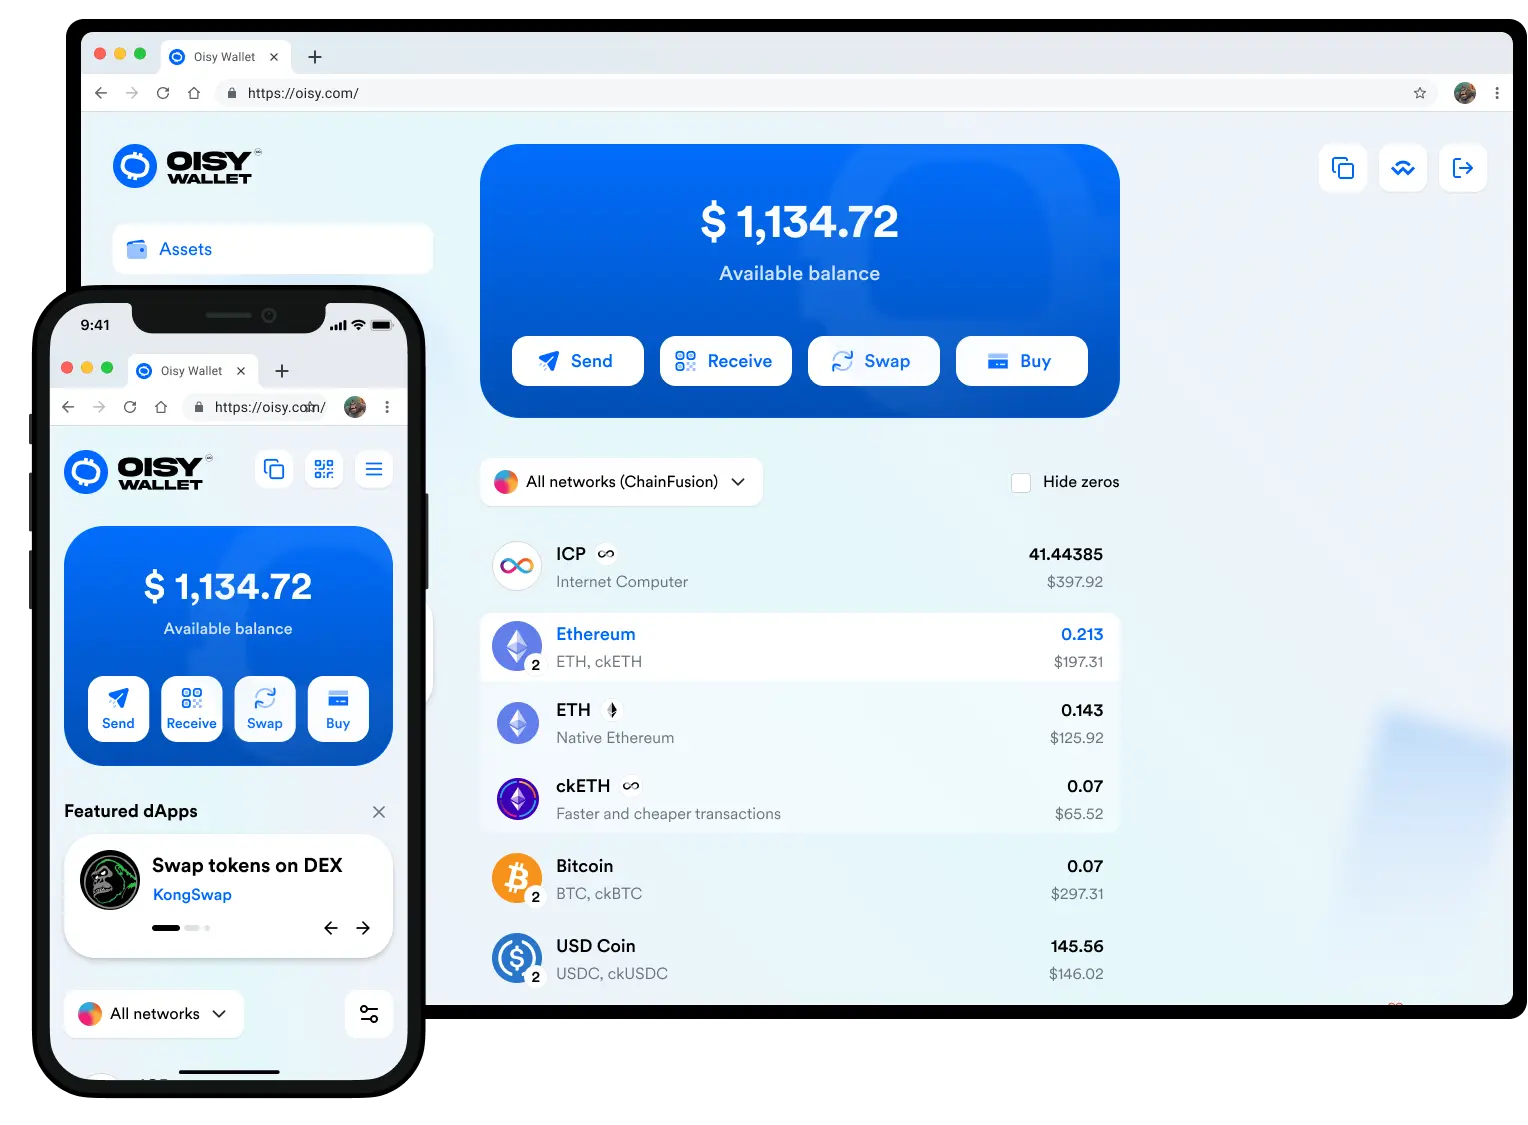
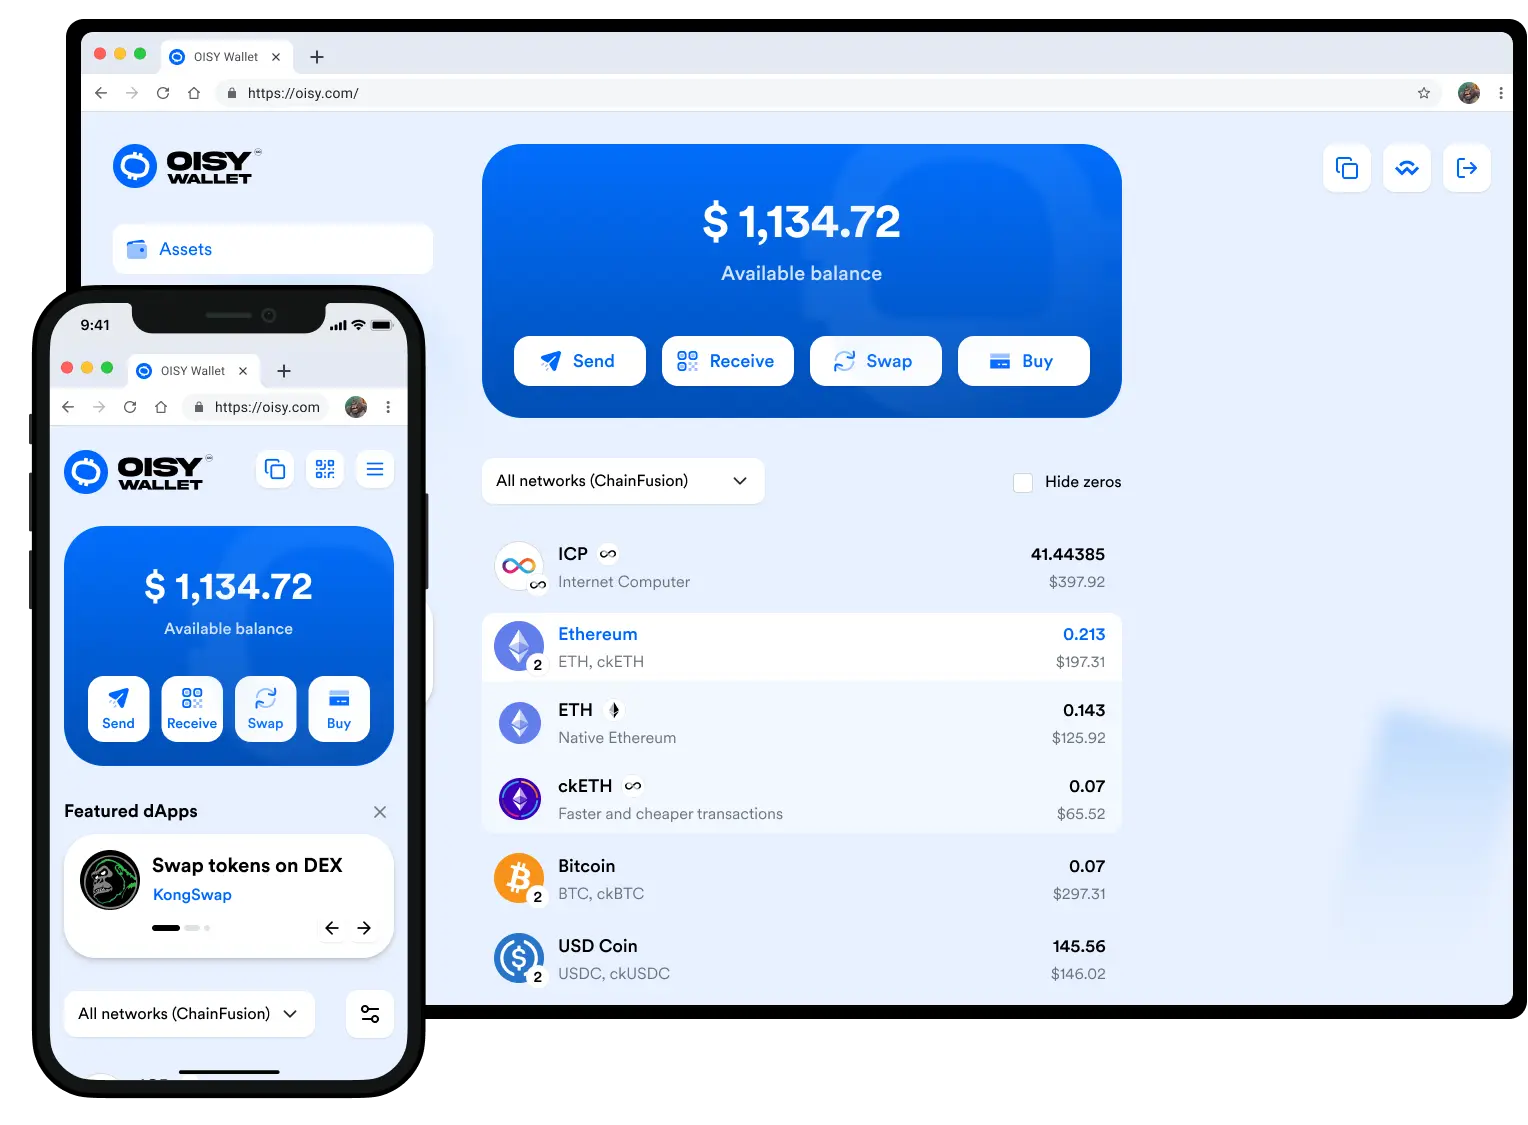
chore(doc): make OISY name uppercase (#2725)
# Motivation

We change every instance of `Oisy` to `OISY`. In another moment we will
decide wether to use `OISY Wallet` or just `OISY`.

diff --git a/README.md b/README.md
@@ -1,6 +1,6 @@
 <div style="display:flex;flex-direction:column;">
   <a href="https://oisy.com/">
-    <img src="./src/frontend/static/images/meta-share-v2.jpg" alt="Oisy Wallet logo" role="presentation"/>
+    <img src="./src/frontend/static/images/meta-share-v2.jpg" alt="OISY Wallet logo" role="presentation"/>
   </a>
 
 <br/>
@@ -14,31 +14,31 @@
 
 ---
 
-## What is the Oisy wallet
+## What is the OISY wallet
 
-Oisy is a new browser-based, self-custodial and multi-chain wallet powered by Internet Computer's [chain fusion](https://internetcomputer.org/chainfusion) technology.
+OISY is a new browser-based, self-custodial and multi-chain wallet powered by Internet Computer's [chain fusion](https://internetcomputer.org/chainfusion) technology.
 
 ## Features
 
-The Oisy wallet provides a convenient user experience known from custodial wallets but without their strong trust assumptions. In contrast, Oisy provides trust assumptions comparable to self-custody solutions. Different from self-custody wallets though, Oisy requires no browser extensions or additional mobile app, a standard off-the-shelf web browser is sufficient. In conclusion, Oisy provides an attractive user experience with a low entry barrier, yet requires no strong trust assumptions.
+The OISY wallet provides a convenient user experience known from custodial wallets but without their strong trust assumptions. In contrast, OISY provides trust assumptions comparable to self-custody solutions. Different from self-custody wallets though, OISY requires no browser extensions or additional mobile app, a standard off-the-shelf web browser is sufficient. In conclusion, OISY provides an attractive user experience with a low entry barrier, yet requires no strong trust assumptions.
 
-Building on ICP, Oisy achieves a unique set of features:
+Building on ICP, OISY achieves a unique set of features:
 
-- **Browser-based:** no matter your browser and operating system preferences, Oisy allows you to receive, hold, and send native ICP, ICRC-1, ETH, ERC20 (and in the near future BTC).
+- **Browser-based:** no matter your browser and operating system preferences, OISY allows you to receive, hold, and send native ICP, ICRC-1, ETH, ERC20 (and in the near future BTC).
 
-- **Cross-device:** due to the use of Internet Identity, Oisy can easily be used across all devices you have linked to your Internet Identity.
+- **Cross-device:** due to the use of Internet Identity, OISY can easily be used across all devices you have linked to your Internet Identity.
 
 - **Self-custody:** the key controlling your multi-chain assets is not controlled by a single entity nor has it ever existed as such. The key was generated using advanced cryptography that distributed key-shares among dedicated ICP replica nodes and signatures are created using [threshold ECDSA](https://internetcomputer.org/docs/current/developer-docs/integrations/t-ecdsa/).
 
 - **Fully on-chain:** not only the keys but the entire wallet application is stored on-chain and served directly to your browser. The entire wallet is secured by a decentralized trust model, which guarantees that neither the front-end, nor the back-end have been tampered with.
 
-- **Interoperable:** Oisy integrates with the [WalletConnect](https://walletconnect.com/) protocol allowing you to use it as a wallet for many established web3 services, such as Uniswap. The Oisy team is actively working on integrating Oisy with [ICP's signer standards](https://github.com/dfinity/wg-identity-authentication/blob/main/topics/signer_standards_overview.md) allowing Oisy to interact with [ICP's rich dapp ecosystem](https://internetcomputer.org/ecosystem).
+- **Interoperable:** OISY integrates with the [WalletConnect](https://walletconnect.com/) protocol allowing you to use it as a wallet for many established web3 services, such as Uniswap. The OISY team is actively working on integrating OISY with [ICP's signer standards](https://github.com/dfinity/wg-identity-authentication/blob/main/topics/signer_standards_overview.md) allowing OISY to interact with [ICP's rich dapp ecosystem](https://internetcomputer.org/ecosystem).
 
-- **Free to use and develop:** Oisy is open-source software and licensed under [Apache 2.0](LICENSE). Feel free to fork it or propose improvements.
+- **Free to use and develop:** OISY is open-source software and licensed under [Apache 2.0](LICENSE). Feel free to fork it or propose improvements.
 
 ## ICP building blocks used
 
-What are the unique ICP technical building blocks enabling the creation of Oisy?
+What are the unique ICP technical building blocks enabling the creation of OISY?
 
 - **Chain-key signatures:** the world's best threshold ECDSA signature [protocol suite](https://eprint.iacr.org/2022/506) (only available on ICP) enables smart contracts to perform cryptographic signatures without a single entity having full access to the private key. Read more about [chain-key cryptography](https://internetcomputer.org/how-it-works/chain-key-technology/) or start building based on [chain-key signature sample code](https://github.com/dfinity/examples/tree/master/rust/threshold-ecdsa).
 
@@ -46,7 +46,7 @@ What are the unique ICP technical building blocks enabling the creation of Oisy?
 
 - **Web applications served from chain:** ICP is not only designed to run _backends_, such as ledgers, on chain, its low storage cost and low latency allow it to serve _frontends_, such as HTML files and images, from chain, too. Read more about [smart contracts serving web applications](https://internetcomputer.org/how-it-works/smart-contracts-serve-the-web/) or directly start [building your first decentralized web frontend](https://internetcomputer.org/docs/current/developer-docs/frontend/).
 
-- (Upcoming) **HTTP outcalls:** for now, Oisy calls centralized Ethereum endpoints, such as Infura or Alchemy, from the frontend. In the future, Oisy might be improved to use [HTTP outcalls](https://internetcomputer.org/https-outcalls) to call these endpoints in a decentralized fashion. Check out the [HTTP outcalls sample code](https://internetcomputer.org/docs/current/developer-docs/integrations/https-outcalls/https-outcalls-how-to-use) to explore how to use Web 2.0 services on ICP.
+- (Upcoming) **HTTP outcalls:** for now, OISY calls centralized Ethereum endpoints, such as Infura or Alchemy, from the frontend. In the future, OISY might be improved to use [HTTP outcalls](https://internetcomputer.org/https-outcalls) to call these endpoints in a decentralized fashion. Check out the [HTTP outcalls sample code](https://internetcomputer.org/docs/current/developer-docs/integrations/https-outcalls/https-outcalls-how-to-use) to explore how to use Web 2.0 services on ICP.
 
 ## Status
 
@@ -74,7 +74,7 @@ dfx stop
 
 from the project directory will stop the local replica.
 
-### Run Oisy locally
+### Run OISY locally
 
 Make sure you switch back to the project root directory.
 
@@ -84,7 +84,7 @@ First, install the frontend dependencies by running
 npm ci
 ```
 
-To build and deploy the project locally, first create a `.env.development` file by copying the [.env.example](.env.example) file. Once you've correctly set the api keys for all the different services that Oisy needs, then run:
+To build and deploy the project locally, first create a `.env.development` file by copying the [.env.example](.env.example) file. Once you've correctly set the api keys for all the different services that OISY needs, then run:
 
 ```
 npm run deploy
@@ -103,7 +103,7 @@ URLs:
     internet_identity: http://127.0.0.1:4943/?canisterId=bd3sg-teaaa-aaaaa-qaaba-cai&id=be2us-64aaa-aaaaa-qaabq-cai
 ```
 
-Click on the **frontend** URL to access the Oisy Wallet that is running locally.
+Click on the **frontend** URL to access the OISY Wallet that is running locally.
 
 ### Local development
 

diff --git a/HOW-TO.md b/HOW-TO.md
@@ -1,28 +1,28 @@
 # How-to
 
-This document provides valuable information regarding Oisy Wallet integration and features.
+This document provides valuable information regarding OISY Wallet integration and features.
 
 ## SNS Token Support
 
 The [SNS aggregator](https://3r4gx-wqaaa-aaaaq-aaaia-cai.icp0.io/) is used to pre-populate the list of available SNSes. This information is not fetched at runtime because it does not change frequently. Moreover, this approach is best suited for a smoother UI/UX experience.
 
-> Note: Some SNSes may not be enabled due to their related Index canister version being outdated and therefore not compatible with Oisy Wallet. If you wish to use these, contact the related project to propose an upgrade to their canister.
+> Note: Some SNSes may not be enabled due to their related Index canister version being outdated and therefore not compatible with OISY Wallet. If you wish to use these, contact the related project to propose an upgrade to their canister.
 
 See script [./script/buil.dsns.tokens.mjs](./script/buil.dsns.tokens.mjs) for more details.
 
 ## Custom ICRC Token Integration
 
-Oisy Wallet allows users to add custom [ICRC](https://internetcomputer.org/docs/current/developer-docs/defi/overview/#icrc-1-ledgers) tokens to their wallet. However, certain requirements must be met to ensure compatibility and security.
+OISY Wallet allows users to add custom [ICRC](https://internetcomputer.org/docs/current/developer-docs/defi/overview/#icrc-1-ledgers) tokens to their wallet. However, certain requirements must be met to ensure compatibility and security.
 
-This chapter outlines the necessary steps and considerations for integrating a custom token into Oisy Wallet.
+This chapter outlines the necessary steps and considerations for integrating a custom token into OISY Wallet.
 
 ### Requirements
 
-To add a custom token to Oisy Wallet, users must provide both a Ledger and Index canister ID. The Ledger canister ID is straightforward, representing the ledger where the token transactions are recorded. However, the Index canister ID is also required because Oisy Wallet does not index transactions and balances. Instead, Oisy reads balance and transactions from an indexer, the Index canister.
+To add a custom token to OISY Wallet, users must provide both a Ledger and Index canister ID. The Ledger canister ID is straightforward, representing the ledger where the token transactions are recorded. However, the Index canister ID is also required because OISY Wallet does not index transactions and balances. Instead, OISY reads balance and transactions from an indexer, the Index canister.
 
 ### Index Canister
 
-Custom tokens seeking compatibility with Oisy Wallet can choose one of the following options for the Index canister:
+Custom tokens seeking compatibility with OISY Wallet can choose one of the following options for the Index canister:
 
 1. Spin up an Index canister on mainnet using the index-ng WASM.
 
@@ -51,7 +51,7 @@ If opting for a custom canister, it must implement the following two endpoints: 
 
 It's important to note that although both functions are queries, for security reasons, they are called with both query and update.
 
-> Oisy uses the JavaScript library [@dfinity/ledger-icrc](https://github.com/dfinity/ic-js/tree/main/packages/ledger-icrc) to interact with the canister.
+> OISY uses the JavaScript library [@dfinity/ledger-icrc](https://github.com/dfinity/ic-js/tree/main/packages/ledger-icrc) to interact with the canister.
 
 #### Ledger ID
 
@@ -63,7 +63,7 @@ ledger_id : () -> (principal) query;
 
 #### Get balance and transactions
 
-This function allows querying of balance and transactions for a specific account. Oisy Wallet uses the principal provided by Internet Identity for the current account without a sub-account.
+This function allows querying of balance and transactions for a specific account. OISY Wallet uses the principal provided by Internet Identity for the current account without a sub-account.
 
 ```
 get_account_transactions : (GetAccountTransactionsArgs) -> (GetTransactionsResult) query;

diff --git a/HACKING.md b/HACKING.md
@@ -67,13 +67,13 @@ Translations are handled in JSON file - for example [en.json](src/frontend/src/l
 
 To add support for an additional language, proceed as following:
 
-> Note that Oisy's repo **does not** accept external contributions yet.
+> Note that OISY's repo **does not** accept external contributions yet.
 
 1. Copy `en.json` to a new filename reflecting the language ISO code (such as for example `zh-cn.json` for simplified Chinese).
 2. Translate each key of the newly created file.
 3. Replace the file imported in [i18n.store.ts](src/frontend/src/lib/stores/i18n.store.ts).
 
-In the future, Oisy might be extended to support multiple languages on production.
+In the future, OISY might be extended to support multiple languages on production.
 
 ### Adding additional keys
 
@@ -116,11 +116,11 @@ This last step will generate the screenshots for the CI and add them to your PR.
 
 ## Integrate ckERC20 Tokens
 
-While the weekly GitHub Action that runs the job [./scripts/build.tokens.ckerc20.mjs] helps discover new ckERC20 tokens deployed on the IC mainnet for testnet purposes or through proposals for effective production usage, some manual steps are still required to integrate them within Oisy.
+While the weekly GitHub Action that runs the job [./scripts/build.tokens.ckerc20.mjs] helps discover new ckERC20 tokens deployed on the IC mainnet for testnet purposes or through proposals for effective production usage, some manual steps are still required to integrate them within OISY.
 
 The steps are as follows:
 
-1. **Collect the Ethereum logo** for the specific token as an SVG, ideally from an official source. Ensure using the logo in Oisy respects brand/trade guidelines.
+1. **Collect the Ethereum logo** for the specific token as an SVG, ideally from an official source. Ensure using the logo in OISY respects brand/trade guidelines.
 2. **Verify the SVG asset size** is acceptable (small) and **copy** it into [src/frontend/src/icp-eth/assets].
 3. Create a new source environment file in [src/frontend/src/env] by cloning [src/frontend/src/env/tokens.usdc.env.ts] and renaming `usdc` to the token's name.
 4. **Adapt the content of the tokens:**
